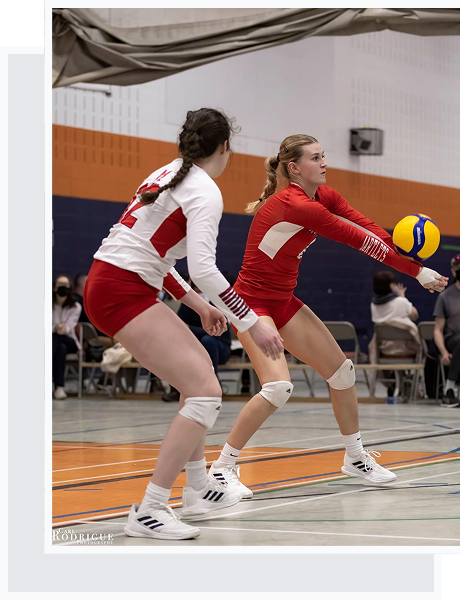
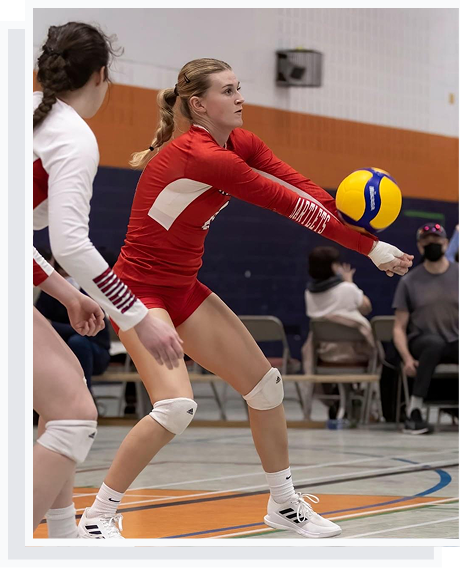
updating about page

diff --git a/src/styles/pages/about.css b/src/styles/pages/about.css
@@ -1,41 +1,214 @@
 .about {
-  padding: var(--gap-xl) var(--gap-lg) 0;
+  padding: 44px var(--gap-lg) 0;
 }
 
 .about__inner {
-  max-width: 1200px;
+  max-width: 1132px;
   margin: 0 auto;
   display: flex;
   align-items: flex-start;
-  gap: var(--gap-xl);
+  gap: 88px;
 }
 
-.about__image {
-  flex-shrink: 0;
+.about p,
+.about h1,
+.about dl,
+.about dd {
+  margin: 0;
 }
 
-.about__photo {
-  width: 340px;
-  display: block;
-}
-
-.about__content {
-  flex: 1;
+/* --------------------------------------------------------------------
+   Left column: photo + at-a-glance card
+   -------------------------------------------------------------------- */
+.about__aside {
+  flex: 0 0 444px;
   display: flex;
   flex-direction: column;
+  gap: var(--gap-lg);
+}
+
+/* Photo stacked over an offset backing panel (backing sits down-left) */
+.about__pic {
+  display: grid;
+  width: 401px;
+  max-width: 100%;
+}
+
+.about__pic-back,
+.about__pic-front {
+  grid-area: 1 / 1;
+  width: calc(100% - 21px);
+  aspect-ratio: 380 / 470;
+  border: 7px solid #f9fafb;
+}
+
+.about__pic-back {
+  margin-top: 21px;
+  background-color: #e5e7eb;
+}
+
+.about__pic-front {
+  display: block;
+  margin-left: 21px;
+  object-fit: cover;
+}
+
+.about__glance {
+  width: 401px;
+  max-width: 100%;
+  display: flex;
+  flex-direction: column;
+  gap: 10px;
+  padding: var(--gap-md);
+  background-color: var(--color-surface-card);
+  border: 1px solid var(--color-border);
+  border-radius: 6px;
+}
+
+.about__glance-title {
+  color: #2d7a57;
+  font-size: 10px;
+  font-weight: 600;
+  letter-spacing: 1px;
+  text-transform: uppercase;
+}
+
+.about__facts {
+  display: flex;
+  flex-direction: column;
+  gap: 10px;
+}
+
+.about__fact {
+  display: flex;
+  align-items: baseline;
+  gap: 12px;
+}
+
+.about__fact-label {
+  flex: 0 0 96px;
+  color: #6b7380;
+  font-size: 10px;
+  font-weight: 600;
+  letter-spacing: 1px;
+  text-transform: uppercase;
+}
+
+.about__fact-value {
+  flex: 1;
+  color: var(--color-text-primary);
+  font-size: 13px;
+  line-height: 20px;
+}
+
+/* --------------------------------------------------------------------
+   Right column: copy + CTAs
+   -------------------------------------------------------------------- */
+.about__content {
+  flex: 0 1 600px;
+  min-width: 0;
+  display: flex;
+  flex-direction: column;
+  align-items: flex-start;
   gap: var(--gap-md);
 }
 
-.about__content h1 {
-  margin: 0;
+.about__eyebrow {
+  display: inline-flex;
+  align-items: center;
+  gap: var(--gap-sm);
+  color: #2d7a57;
+  font-size: 11px;
+  font-weight: 600;
+  letter-spacing: 1.3px;
+  text-transform: uppercase;
+}
+
+.about__heading {
+  color: #111827;
+  font-size: 30px;
+  line-height: 36px;
+  font-weight: 600;
+  letter-spacing: -0.6px;
 }
 
 .about__body {
   display: flex;
   flex-direction: column;
-  gap: var(--gap-md);
+  gap: 20px;
+  color: var(--color-text-primary);
+  font-size: var(--font-size-subheading);
+  line-height: var(--line-height-subheading);
 }
 
-.about__body p {
-  margin: 0;
+.about__body .about__lead {
+  font-size: 18px;
+  line-height: 28px;
+}
+
+.about__ctas {
+  display: flex;
+  flex-wrap: wrap;
+  gap: 12px;
+  margin-top: var(--gap-sm);
+}
+
+.about__cta {
+  display: inline-flex;
+  align-items: center;
+  padding: 7px var(--padding-tag-x);
+  background-color: var(--color-surface-page);
+  border: 1px solid var(--color-border);
+  border-radius: 6px;
+  color: var(--color-text-primary);
+  font-size: 12px;
+  font-weight: 600;
+  text-decoration: none;
+  white-space: nowrap;
+  transition: border-color 0.15s ease, background-color 0.15s ease;
+}
+
+.about__cta:hover {
+  border-color: var(--color-accent);
+}
+
+.about__cta--primary {
+  background-color: var(--color-text-primary);
+  border-color: var(--color-text-primary);
+  color: #ffffff;
+}
+
+.about__cta--primary:hover {
+  background-color: var(--color-accent-hover);
+  border-color: var(--color-accent-hover);
+}
+
+/* --------------------------------------------------------------------
+   Responsive
+   -------------------------------------------------------------------- */
+@media (max-width: 1100px) {
+  .about__inner {
+    gap: 48px;
+  }
+
+  .about__aside {
+    flex-basis: 401px;
+  }
+}
+
+@media (max-width: 900px) {
+  .about__inner {
+    flex-direction: column;
+    align-items: stretch;
+    gap: 40px;
+  }
+
+  .about__aside {
+    flex-basis: auto;
+    align-items: center;
+  }
+
+  .about__content {
+    flex-basis: auto;
+  }
 }

diff --git a/src/pages/about.jsx b/src/pages/about.jsx
@@ -1,18 +1,65 @@
+import { Link } from 'react-router-dom';
 import '../styles/pages/about.css';
+
+const FACTS = [
+  { label: 'Now',           value: 'MS Business Analytics, UT Austin' },
+  { label: 'Before',        value: 'BSc Math Stats & Software Eng, McGill' },
+  { label: 'Based in',      value: 'Austin, TX' },
+  { label: 'Interests',     value: 'Finance, energy & sports' },
+  { label: 'Off the clock', value: 'Volleyball, Golf, Wake Sports' },
+];
 
 export default function About() {
   return (
     <section className="about">
       <div className="about__inner">
 
-        <div className="about__image">
-          <img src="/vball-pic-container.png" alt="Sloane playing volleyball" className="about__photo" />
+        <div className="about__aside">
+          <div className="about__pic">
+            <div className="about__pic-back" />
+            <img
+              src="/images/about-vball@2x.jpg"
+              srcSet="/images/about-vball@1x.jpg 1x, /images/about-vball@2x.jpg 2x, /images/about-vball@3x.jpg 3x"
+              alt="Sloane playing volleyball"
+              className="about__pic-front"
+            />
+          </div>
+
+          <div className="about__glance">
+            <p className="about__glance-title">At a glance</p>
+            <dl className="about__facts">
+              {FACTS.map(fact => (
+                <div key={fact.label} className="about__fact">
+                  <dt className="about__fact-label">{fact.label}</dt>
+                  <dd className="about__fact-value">{fact.value}</dd>
+                </div>
+              ))}
+            </dl>
+          </div>
         </div>
 
         <div className="about__content">
-          <h1 className="text-display">A little bit about me:</h1>
-          <div className="about__body text-body">
-            <p>PARAGRAPH</p>
+          <p className="about__eyebrow">
+            <img src="/icons/section-dot.svg" alt="" width="7" height="7" />
+            About me
+          </p>
+          <h1 className="about__heading">A little bit about me</h1>
+
+          <div className="about__body">
+            <p className="about__lead">
+              My background has always been a mix of different interests, from mathematics and technology to business and sports. After completing my undergraduate studies in Mathematical Statistics and Software Engineering at McGill University, I moved to Austin to pursue a Master's in Business Analytics at the University of Texas, where I'm continuing to explore how technical thinking can inform real-world business decisions.
+            </p>
+            <p>
+              Sports have also played a defining role in my life. Balancing the demands of varsity volleyball with a double major in STEM taught me how to manage competing priorities, adapt quickly, and perform under pressure. Beyond the court, the experience reinforced the importance of teamwork, resilience, and accountability, qualities that continue to shape how I approach challenges, collaborate with others, and lead teams.
+            </p>
+            <p>
+              I'm naturally curious and like working across disciplines. I enjoy learning new things and value collaborating with people who bring different perspectives to the table. I'm especially drawn to the intersection of data, technology, and business in industries like finance, energy, and sports, but what motivates me most is tackling complex challenges, building practical solutions, and bridging the gap between technical thinking and real-world decision-making.
+            </p>
+          </div>
+
+          <div className="about__ctas">
+            <Link to="/projects" className="about__cta about__cta--primary">See my projects&nbsp;&nbsp;→</Link>
+            <Link to="/contact" className="about__cta">Get in touch</Link>
           </div>
         </div>
 
